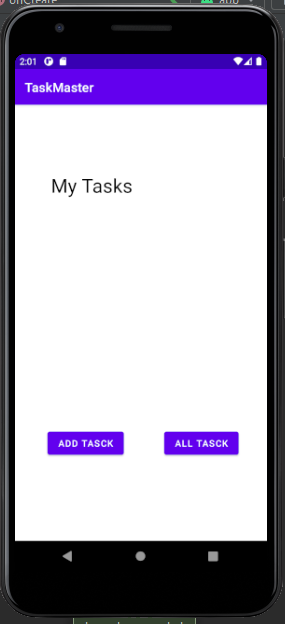
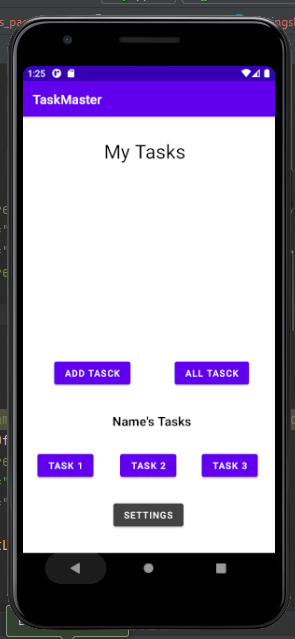
lab27

diff --git a/TaskMaster/app/src/main/java/com/example/taskmaster/MainActivity.java b/TaskMaster/app/src/main/java/com/example/taskmaster/MainActivity.java
@@ -3,19 +3,37 @@ package com.example.taskmaster;
 import androidx.appcompat.app.AppCompatActivity;
 
 import android.content.Intent;
+import android.content.SharedPreferences;
 import android.os.Bundle;
+import android.preference.PreferenceManager;
 import android.view.View;
 import android.widget.Button;
+import android.widget.TextView;
 
 public class MainActivity extends AppCompatActivity {
 
-    Button btn_add,btn_all;
+    Button btn_add, btn_all, btn_task_1, btn_task_2, btn_task_3, btn_setting;
+    TextView username;
+    SharedPreferences sharedPreferences;
+    SharedPreferences.Editor editor;
     @Override
     protected void onCreate(Bundle savedInstanceState) {
         super.onCreate(savedInstanceState);
         setContentView(R.layout.activity_main);
-        btn_add=findViewById(R.id.addTask);
-        btn_all=findViewById(R.id.allTask);
+        btn_add = findViewById(R.id.addTask);
+        btn_all = findViewById(R.id.allTask);
+
+        btn_task_1= findViewById(R.id.task1);
+        btn_task_2= findViewById(R.id.task2);
+        btn_task_3= findViewById(R.id.task3);
+        btn_setting= findViewById(R.id.settings);
+        username=findViewById(R.id.username);
+
+
+        sharedPreferences = PreferenceManager.getDefaultSharedPreferences(this);
+        String userName = sharedPreferences.getString("username", "Name");
+        username.setText(userName + "\'s Tasks");
+
 
         btn_add.setOnClickListener(new View.OnClickListener() {
             @Override
@@ -33,8 +51,39 @@ public class MainActivity extends AppCompatActivity {
             }
         });
 
+        /*_________*/
+        btn_task_1.setOnClickListener(new View.OnClickListener() {
+            @Override
+            public void onClick(View view) {
+                Intent i = new Intent(MainActivity.this, TaskDetail.class);
+                i.putExtra("title", "Task One Detail");
+                startActivity(i);
+            }
+        });
+        btn_task_2.setOnClickListener(new View.OnClickListener() {
+            @Override
+            public void onClick(View view) {
+                Intent i = new Intent(MainActivity.this, TaskDetail.class);
+                i.putExtra("title", "Task Two Detail");
+                startActivity(i);
+            }
+        });
+        btn_task_3.setOnClickListener(new View.OnClickListener() {
+            @Override
+            public void onClick(View view) {
+                Intent i = new Intent(MainActivity.this, TaskDetail.class);
+                i.putExtra("title", "Task Three Detail");
+                startActivity(i);
+            }
+        });
+
+        btn_setting.setOnClickListener(new View.OnClickListener() {
+            @Override
+            public void onClick(View view) {
+                Intent i = new Intent(MainActivity.this, SettingsPage.class);
+                startActivity(i);
+            }
+        });
+
     }
-
-
-
 }

diff --git a/TaskMaster/app/src/main/java/com/example/taskmaster/SettingsPage.java b/TaskMaster/app/src/main/java/com/example/taskmaster/SettingsPage.java
@@ -1,0 +1,53 @@
+package com.example.taskmaster;
+
+import androidx.appcompat.app.AppCompatActivity;
+
+import android.content.Intent;
+import android.content.SharedPreferences;
+import android.os.Bundle;
+import android.preference.PreferenceManager;
+import android.view.View;
+import android.widget.Button;
+import android.widget.EditText;
+
+public class SettingsPage extends AppCompatActivity {
+
+    EditText username;
+    Button btn_save;
+
+    SharedPreferences sharedPreferences;
+    SharedPreferences.Editor editor;
+
+    @Override
+    protected void onCreate(Bundle savedInstanceState) {
+        super.onCreate(savedInstanceState);
+        setContentView(R.layout.activity_settings_page);
+
+        username=findViewById(R.id.username);
+        btn_save = findViewById(R.id.save);
+
+        btn_save.setOnClickListener(new View.OnClickListener() {
+            @Override
+            public void onClick(View v) {
+                String userName = username.getText().toString();
+                if(!userName.isEmpty()){
+                    sharedPreferences = PreferenceManager.getDefaultSharedPreferences(SettingsPage.this);
+                    editor = sharedPreferences.edit();
+                    editor.putString("username", userName);
+                    editor.apply();
+                    Intent i = new Intent(SettingsPage.this, MainActivity.class);
+                    startActivity(i);
+                }
+
+            }
+        });
+
+
+
+
+
+
+
+
+    }
+}

diff --git a/TaskMaster/app/src/main/java/com/example/taskmaster/TaskDetail.java b/TaskMaster/app/src/main/java/com/example/taskmaster/TaskDetail.java
@@ -1,0 +1,24 @@
+package com.example.taskmaster;
+
+import androidx.appcompat.app.AppCompatActivity;
+
+import android.content.Intent;
+import android.os.Bundle;
+import android.widget.TextView;
+
+public class TaskDetail extends AppCompatActivity {
+
+    TextView title, description;
+    @Override
+    protected void onCreate(Bundle savedInstanceState) {
+        super.onCreate(savedInstanceState);
+        setContentView(R.layout.activity_task_detail);
+
+        title=findViewById(R.id.title);
+        description=findViewById(R.id.description);
+
+        Intent i = getIntent();
+        String Tilte=i.getStringExtra("title");
+        title.setText(Tilte);
+    }
+}

diff --git a/README.md b/README.md
@@ -1,8 +1,54 @@
 # taskmaster
-
+## lab 26
+### Homepage
+The main page should be built out to match the wireframe. In particular, it should have a heading at the top of the page, an image to mock the “my tasks” view, and buttons at the bottom of the page to allow going to the “add tasks” and “all tasks” page.
 * Home Page<br/>
 ![image description](screenshots/1.png)
+
+### Add a Task
+On the “Add a Task” page, allow users to type in details about a new task, specifically a title and a body. When users click the “submit” button, show a “submitted!” label on the page.
 * Add Task<br/>
 ![image description](screenshots/2.png)
+
+### All Tasks
+The all tasks page should just be an image with a back button; it needs no functionality.
+
 * All Task<br/>
 ![image description](screenshots/3.png)
+
+
+---
+## lab 27
+
+### Homepage
+The main page should be modified to contain three different buttons with hardcoded task titles. When a user taps one of the titles, it should go to the Task Detail page, and the title at the top of the page should match the task title that was tapped on the previous page.
+
+The homepage should also contain a button to visit the Settings page, and once the user has entered their username, it should display “{username}’s tasks” above the three task buttons.
+* Home Page<br/>
+![image description](screenshots/1.png)
+
+### Add a Task
+On the “Add a Task” page, allow users to type in details about a new task, specifically a title and a body. When users click the “submit” button, show a “submitted!” label on the page.
+* Add Task<br/>
+![image description](screenshots/2.png)
+
+### All Tasks
+The all tasks page should just be an image with a back button; it needs no functionality.
+
+* All Task<br/>
+![image description](screenshots/3.png)
+
+* Task Detail Page<br/>
+Create a Task Detail page. It should have a title at the top of the page, and a Lorem Ipsum description.
+
+* Task Detail<br/>
+![image description](screenshots/4.png)
+
+* Settings Page<br/>
+Create a Settings page. It should allow users to enter their username and hit save.
+
+* Settings Page<br/>
+![image description](screenshots/5.png)
+
+
+
